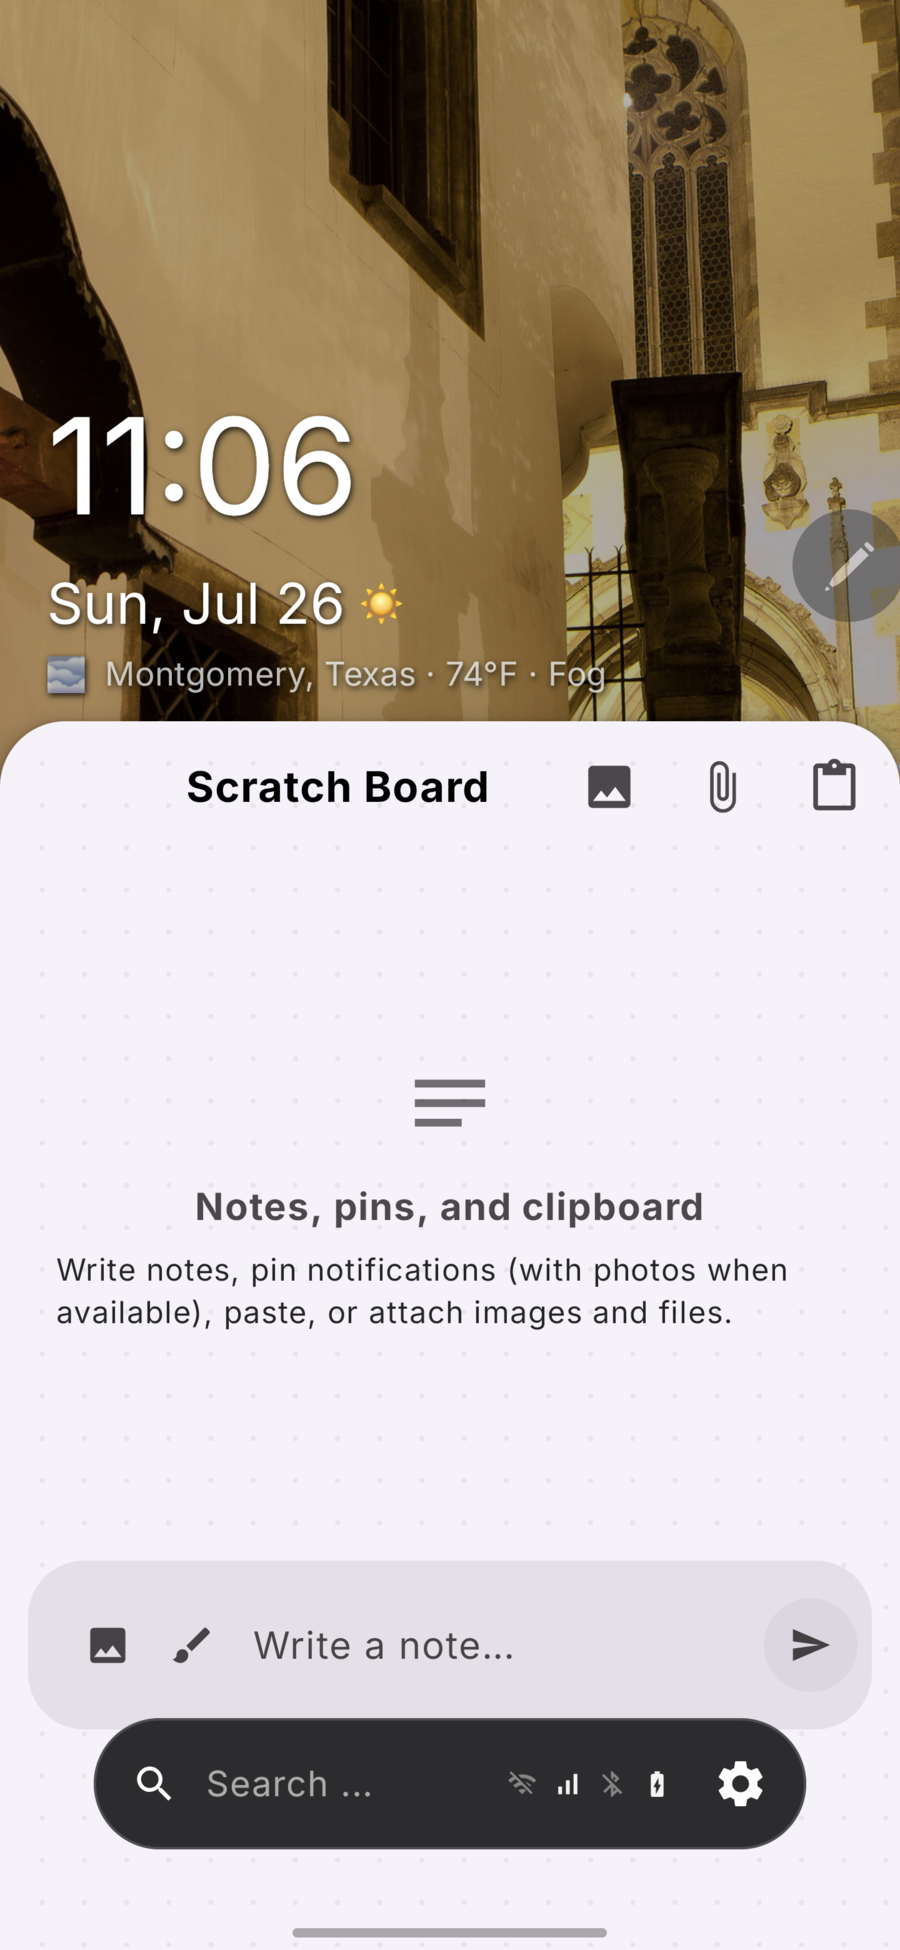
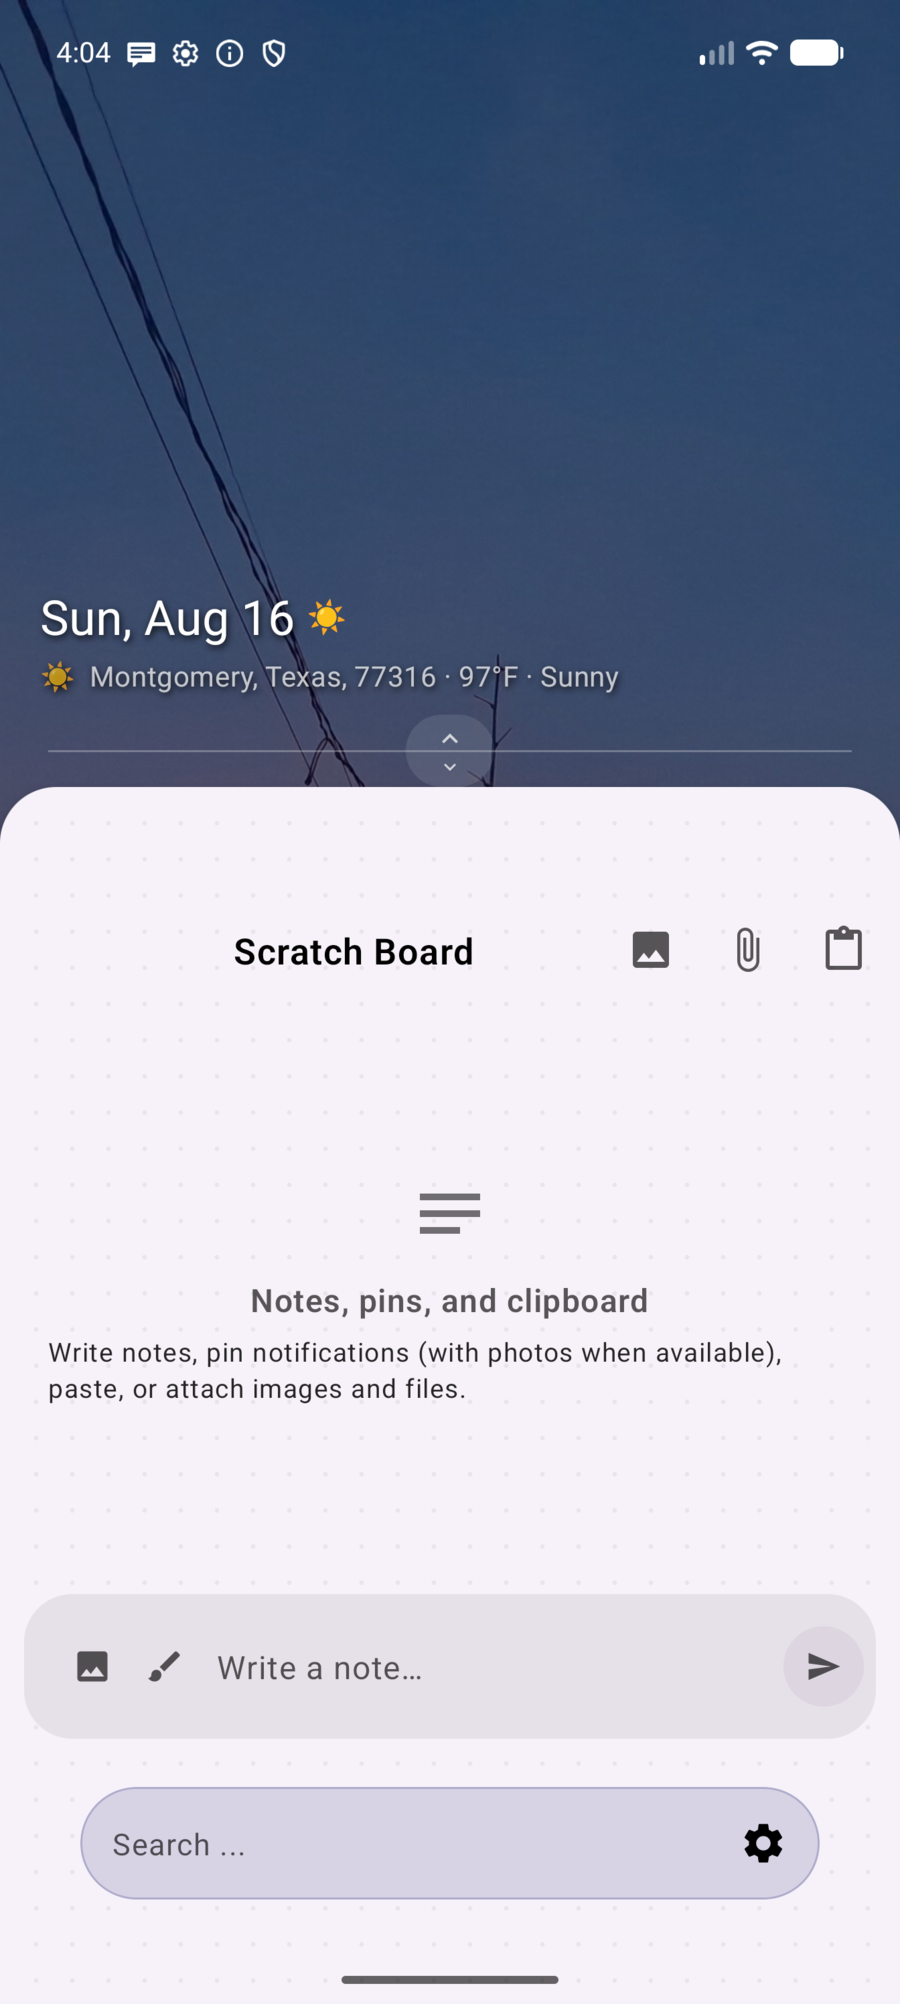
docs: add current page shots and note Back cycles home pages
Capture Notifications, Scratch Board, Contacts, Quick Settings, and
home from the emulator. Document that Back on home moves pages.

diff --git a/features.md b/features.md
@@ -18,6 +18,7 @@ Dextera is a custom **home screen** for Android: one-handed navigation, unified 
 | [Music](#music) | Now playing on a dedicated page |
 | [Notifications](#notifications) | Full notification center on a page |
 | [Scratch Board](#scratch-board) | Notes, pins, clipboard, attachments |
+| [Quick Settings](#quick-settings) | Toggles on a home page |
 | [Backup](#backup--restore) | Save, share, and restore a Dextera zip |
 | [Page overview](#page-overview) | Reorder pages, wallpapers, widgets |
 | [Wallpapers](#wallpapers) | Catalog, photos, day/night packs, blur/dim |
@@ -145,6 +146,22 @@ A place for **notes**, **pinned notifications** (with photos when available), **
 2. Type in **Write a note…** and send.  
 3. Use the image / attach / clipboard controls on the page.  
 4. Share files into Scratch Board when Android’s share sheet offers Dextera.  
+
+---
+
+## Quick Settings
+
+<p align="center">
+  <img class="shot" src="{{ '/assets/images/wiki_quick_settings.png' | relative_url }}" alt="Quick Settings page" width="320" />
+</p>
+
+Toggles on a dedicated home page: Wi‑Fi, Bluetooth, flashlight, airplane, DND, brightness, and shortcuts into system settings.
+
+### How to
+
+1. Enable **Quick Settings** under **Settings → Pages** if it is hidden.  
+2. Tap a tile to toggle; hold a tile for the system details screen.  
+3. Brightness needs the **Modify system settings** grant the first time.  
 
 ---
 

diff --git a/getting-started.md b/getting-started.md
@@ -62,12 +62,13 @@ Until this is set, the Home button may return you to your old launcher.
 ## Try these first
 
 1. **Flick** the search bar left or right to change page.  
-2. **Hold and drag** the search bar to scrub through all pages.  
-3. **Long-press** an app for pin, lock, hide, folder, or uninstall.  
-4. **Pinch**, **long-press empty space**, or tap the **gear** for **page overview**.  
-5. In overview, open **Appearance** (wallpapers, theme, fonts) or **Settings**.  
-6. Under **Settings → About**, use **Save backup** / **Share backup** / **Import backup**.  
-7. Under **Touch & Gestures**, set **Home button** to **First page** if you want: leave an app → page you were on; Home again → first page.  
+2. **Back** while already on home also cycles pages (when traditional swiping is off).  
+3. **Hold and drag** the search bar to scrub through all pages.  
+4. **Long-press** an app for pin, lock, hide, folder, or uninstall.  
+5. **Pinch**, **long-press empty space**, or tap the **gear** for **page overview**.  
+6. In overview, open **Appearance** (wallpapers, theme, fonts) or **Settings**.  
+7. Under **Settings → About**, use **Save backup** / **Share backup** / **Import backup**.  
+8. Under **Touch & Gestures**, set **Home button** to **First page** if you want: leave an app → page you were on; Home again → first page.  
 
 ## Feature tour
 

diff --git a/pages.md b/pages.md
@@ -16,7 +16,7 @@ Turn pages on/off and reorder them under **Settings → Pages**, or long-press-d
 | **Music** | Now playing, seek, volume | [Music]({{ '/features/#music' | relative_url }}) |
 | **Notifications** | Full notification center, pin apps | [Notifications]({{ '/features/#notifications' | relative_url }}) |
 | **Scratch Board** | Notes, clipboard, pins, attachments | [Scratch Board]({{ '/features/#scratch-board' | relative_url }}) |
-| **Quick Settings** | Fast toggles (may require Pro to add) | — |
+| **Quick Settings** | Fast toggles (may require Pro to add) | [Quick Settings]({{ '/features/#quick-settings' | relative_url }}) |
 | **Custom / Widgets** | Free-form widget canvas (extra pages may need Pro) | — |
 
 <p align="center">

diff --git a/index.md b/index.md
@@ -63,6 +63,14 @@ description: User help and feature guides for Dextera Launcher.
     <img src="{{ '/assets/images/wiki_appearance.png' | relative_url }}" alt="Appearance" />
     <figcaption>Appearance — live Home and Lock preview</figcaption>
   </figure>
+  <figure class="shot-card">
+    <img src="{{ '/assets/images/wiki_notifications.png' | relative_url }}" alt="Notification center" />
+    <figcaption>Notification center on a home page</figcaption>
+  </figure>
+  <figure class="shot-card">
+    <img src="{{ '/assets/images/wiki_scratch_board.png' | relative_url }}" alt="Scratch Board" />
+    <figcaption>Scratch Board — notes, pins, clipboard</figcaption>
+  </figure>
 </div>
 
 ## Browse the help

diff --git a/gestures.md b/gestures.md
@@ -14,7 +14,7 @@ permalink: /gestures/
 | **Drag the letter rail** | Jump the app list (or contacts rail, if enabled) |
 | **Long-press** an app or contact | Open the quick menu |
 | **Pinch in** or **long-press empty space** | Page overview |
-| **System back** | Close menus and search; may change page only if traditional swiping is off |
+| **System back** | Close menus and search first; on home it **cycles pages** (unless traditional swiping is on) |
 | **Hold back** (if on) | Jump to the page you chose in settings |
 | **Pull down** from the top area | Reachability — content moves closer to your thumb |
 | **Double-tap** the clock/header (if set) | Runs your chosen action |
